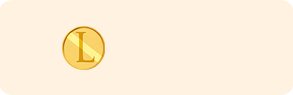
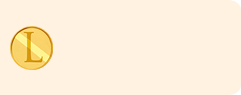
almost finished shop and buy
belt button and text need to be done in both screens yet

Changed region(s): [[0.029, 0.2737, 0.3776, 0.7368], [0.0, 0.9474, 0.029, 1.0], [0.0, 0.0, 0.029, 0.0632]]

diff --git a/front-end/assets/js/screens/shop.js b/front-end/assets/js/screens/shop.js
@@ -66,7 +66,8 @@ game.ShopScreen = me.ScreenObject.extend({
                         this.difference = 0;
                         this.size       = 0;
                     }
-                    var shopItem = new game.ClickableElement('shopItem' + i, '', goBuy(i, shop[i].id), 4.948 + this.size, 8.433, 23.436 - this.difference, 18.129167 + i * 10.9375, 1);
+                    var shopItem = new game.ClickableElement('shopItem' + i, '', goBuy(i, shop[i].id), 4.948 + this.size,
+                                                            8.433, 23.436 - this.difference, 18.129167 + i * 10.9375, 1);
                     shopItem.setImage("assets/data/img/avatare/" + shop[i].thumbnailUrl + "_front.png", "avatar");
                     $("#shopItem" + i).fadeIn(100);
                     me.game.world.addChild(shopItem);
@@ -82,7 +83,8 @@ game.ShopScreen = me.ScreenObject.extend({
                         this.difference = 0;
                         this.size       = 0;
                     }
-                    var shopItem = new game.ClickableElement('shopItem' + i, '', goBuy(i), 4.848 + this.size, 8.333, 33.330 - this.difference, 18.129167 + (i - 7) * 10.9375, 1);
+                    var shopItem = new game.ClickableElement('shopItem' + i, '', goBuy(i, shop[i].id), 4.848 + this.size,
+                                                            8.333, 33.330 - this.difference, 18.129167 + (i - 7) * 10.9375, 1);
                     shopItem.setImage("assets/data/img/avatare/" + shop[i].thumbnailUrl + "_front.png", "avatar");
                     $("#shopItem" + i).fadeIn(100);
                     me.game.world.addChild(shopItem);
@@ -98,7 +100,8 @@ game.ShopScreen = me.ScreenObject.extend({
                         this.difference = 0;
                         this.size       = 0;
                     }
-                    var shopItem = new game.ClickableElement('shopItem' + i, '', goBuy(i), 4.848 + this.size, 8.333, 38.942 - this.difference, 18.129167 + (i - 14) * 10.9375, 1);
+                    var shopItem = new game.ClickableElement('shopItem' + i, '', goBuy(i, shop[i].id), 4.848 + this.size,
+                                                            8.333, 38.942 - this.difference, 18.129167 + (i - 14) * 10.9375, 1);
                     shopItem.setImage("assets/data/img/avatare/" + shop[i].thumbnailUrl + "_front.png", "avatar");
                     $("#shopItem" + i).fadeIn(100);
                     me.game.world.addChild(shopItem);
@@ -114,7 +117,8 @@ game.ShopScreen = me.ScreenObject.extend({
                         this.difference = 0;
                         this.size = 0;
                     }
-                    var shopItem = new game.ClickableElement('shopItem' + i, '', goBuy(i), 4.848 + this.size, 8.333, 51.994 - this.difference, 29.06666 + (i - 21) * 10.9375, 1);
+                    var shopItem = new game.ClickableElement('shopItem' + i, '', goBuy(i, shop[i].id), 4.848 + this.size,
+                                                            8.333, 51.994 - this.difference, 29.06666 + (i - 21) * 10.9375, 1);
                     shopItem.setImage("assets/data/img/avatare/" + shop[i].thumbnailUrl + "_front.png", "avatar");
                     $("#shopItem" + i).fadeIn(100);
                     me.game.world.addChild(shopItem);
@@ -130,7 +134,8 @@ game.ShopScreen = me.ScreenObject.extend({
                         this.difference = 0;
                         this.size       = 0;
                     }
-                     var shopItem = new game.ClickableElement('shopItem' + i, '', goBuy(i), 4.848 + this.size, 8.333, 57.782 - this.difference, 40.00417 + (i - 27) * 10.9375, 1);
+                     var shopItem = new game.ClickableElement('shopItem' + i, '', goBuy(i, shop[i].id), 4.848 + this.size,
+                                                             8.333, 57.782 - this.difference, 40.00417 + (i - 27) * 10.9375, 1);
                     shopItem.setImage("assets/data/img/avatare/" + shop[i].thumbnailUrl + "_front.png", "avatar");
                     $("#shopItem" + i).fadeIn(100);
                     me.game.world.addChild(shopItem);
@@ -146,7 +151,8 @@ game.ShopScreen = me.ScreenObject.extend({
                         this.difference = 0;
                         this.size = 0;
                     }
-                    var shopItem = new game.ClickableElement('shopItem' + i, '', goBuy(i), 4.848 + this.size, 8.333, 70.2545 - this.difference, 29.06666 + (i - 32) * 10.9375, 1);
+                    var shopItem = new game.ClickableElement('shopItem' + i, '', goBuy(i, shop[i].id), 4.848 + this.size,
+                                                            8.333, 70.2545 - this.difference, 29.06666 + (i - 32) * 10.9375, 1);
                     shopItem.setImage("assets/data/img/avatare/" + shop[i].thumbnailUrl + "_front.png", "avatar");
                     $("#shopItem" + i).fadeIn(100);
                     me.game.world.addChild(shopItem);

diff --git a/front-end/assets/js/screens/buy.js b/front-end/assets/js/screens/buy.js
@@ -8,7 +8,7 @@ game.BuyScreen = me.ScreenObject.extend({
         console.log(game.data.shopId);
         console.log(game.data.shop[game.data.shopId]);
 
-        me.game.world.addChild(
+        /**me.game.world.addChild(
             new me.Sprite (
                 0,0,
                 me.loader.getImage('shop_screen')
@@ -16,8 +16,33 @@ game.BuyScreen = me.ScreenObject.extend({
             0
         );
 
-        me.game.world.addChild(new game.HUD.LofiCoins(230, 660),3);
+        /**
+         * Create background-div and add image to it.
+         */
+        var backgroundShop = new game.BackgroundElement('backgroundShopId', 100, 100, 0, 0, 'none');
+        backgroundShop.setImage("assets/data/img/gui/shop_screen.png", "backgroundshop");
+        me.game.world.addChild(backgroundShop);
+        $("#backgroundShopId").fadeIn(100);
+        var backgroundFaded = new game.BackgroundElement('backgroundFadedId', 100, 100, 0, 0, 'none');
+        backgroundFaded.setImage("assets/data/img/gui/faded_lab_screen.png", "backgroundfaded");
+        me.game.world.addChild(backgroundFaded);
+        $("#backgroundFadedId").fadeIn(100);
+        var backgroundTag = new game.BackgroundElement('backgroundTagId', 88.863636, 68.489583, 0, 15.885417, 'none');
+        backgroundTag.setImage("assets/data/img/gui/price_tag.png", "backgroundtag");
+        me.game.world.addChild(backgroundTag);
+        $("#backgroundTagId").fadeIn(100);
 
+
+        var lofiCoinsFrame = new game.BackgroundElement('lofiCoinsId', 18.257576, 12.369792, 0, 82.291667, 'none');
+        lofiCoinsFrame.setImage("assets/data/img/gui/LofiCoinBox.png", "lofiCoinsImg");
+        me.game.world.addChild(lofiCoinsFrame);
+        $("#lofiCoinsId").fadeIn(100);
+
+        var lofiCoins = new game.TextOutputElement('lofiCoins', 15, 6, 2.7, 86, 1);
+        me.game.world.addChild(lofiCoins);
+        lofiCoins.writeHTML(game.data.lofiCoins, 'lofiCoinsPara');
+
+/**
         me.game.world.addChild(
             new me.Sprite (
                 0,0,
@@ -32,9 +57,8 @@ game.BuyScreen = me.ScreenObject.extend({
                 me.loader.getImage('price_tag')
             ),
             2
-        );
+        );*/
 
-        // Creates a Button that brings you back to the last Screen
 
         if(game.data.spriteId > 41){
             me.game.world.addChild( new game.HUD.BuyBelt(543, 300),3);
@@ -71,6 +95,12 @@ game.BuyScreen = me.ScreenObject.extend({
         this.toShop = function() {
             $("#backToShop").fadeOut(100);
             $("#buyButton").fadeOut(100);
+            $("#lofiCoinsId").fadeOut(100);
+            $("#lofiCoins").fadeOut(100);
+            $("#avatar").fadeOut(100);
+            $("#backgroundShopId").fadeOut(100);
+            $("#backgroundFadedId").fadeOut(100);
+            $("#backgroundTagId").fadeOut(100);
             setTimeout( function() {
                 me.state.change(STATE_SHOP);
             }, 100);
